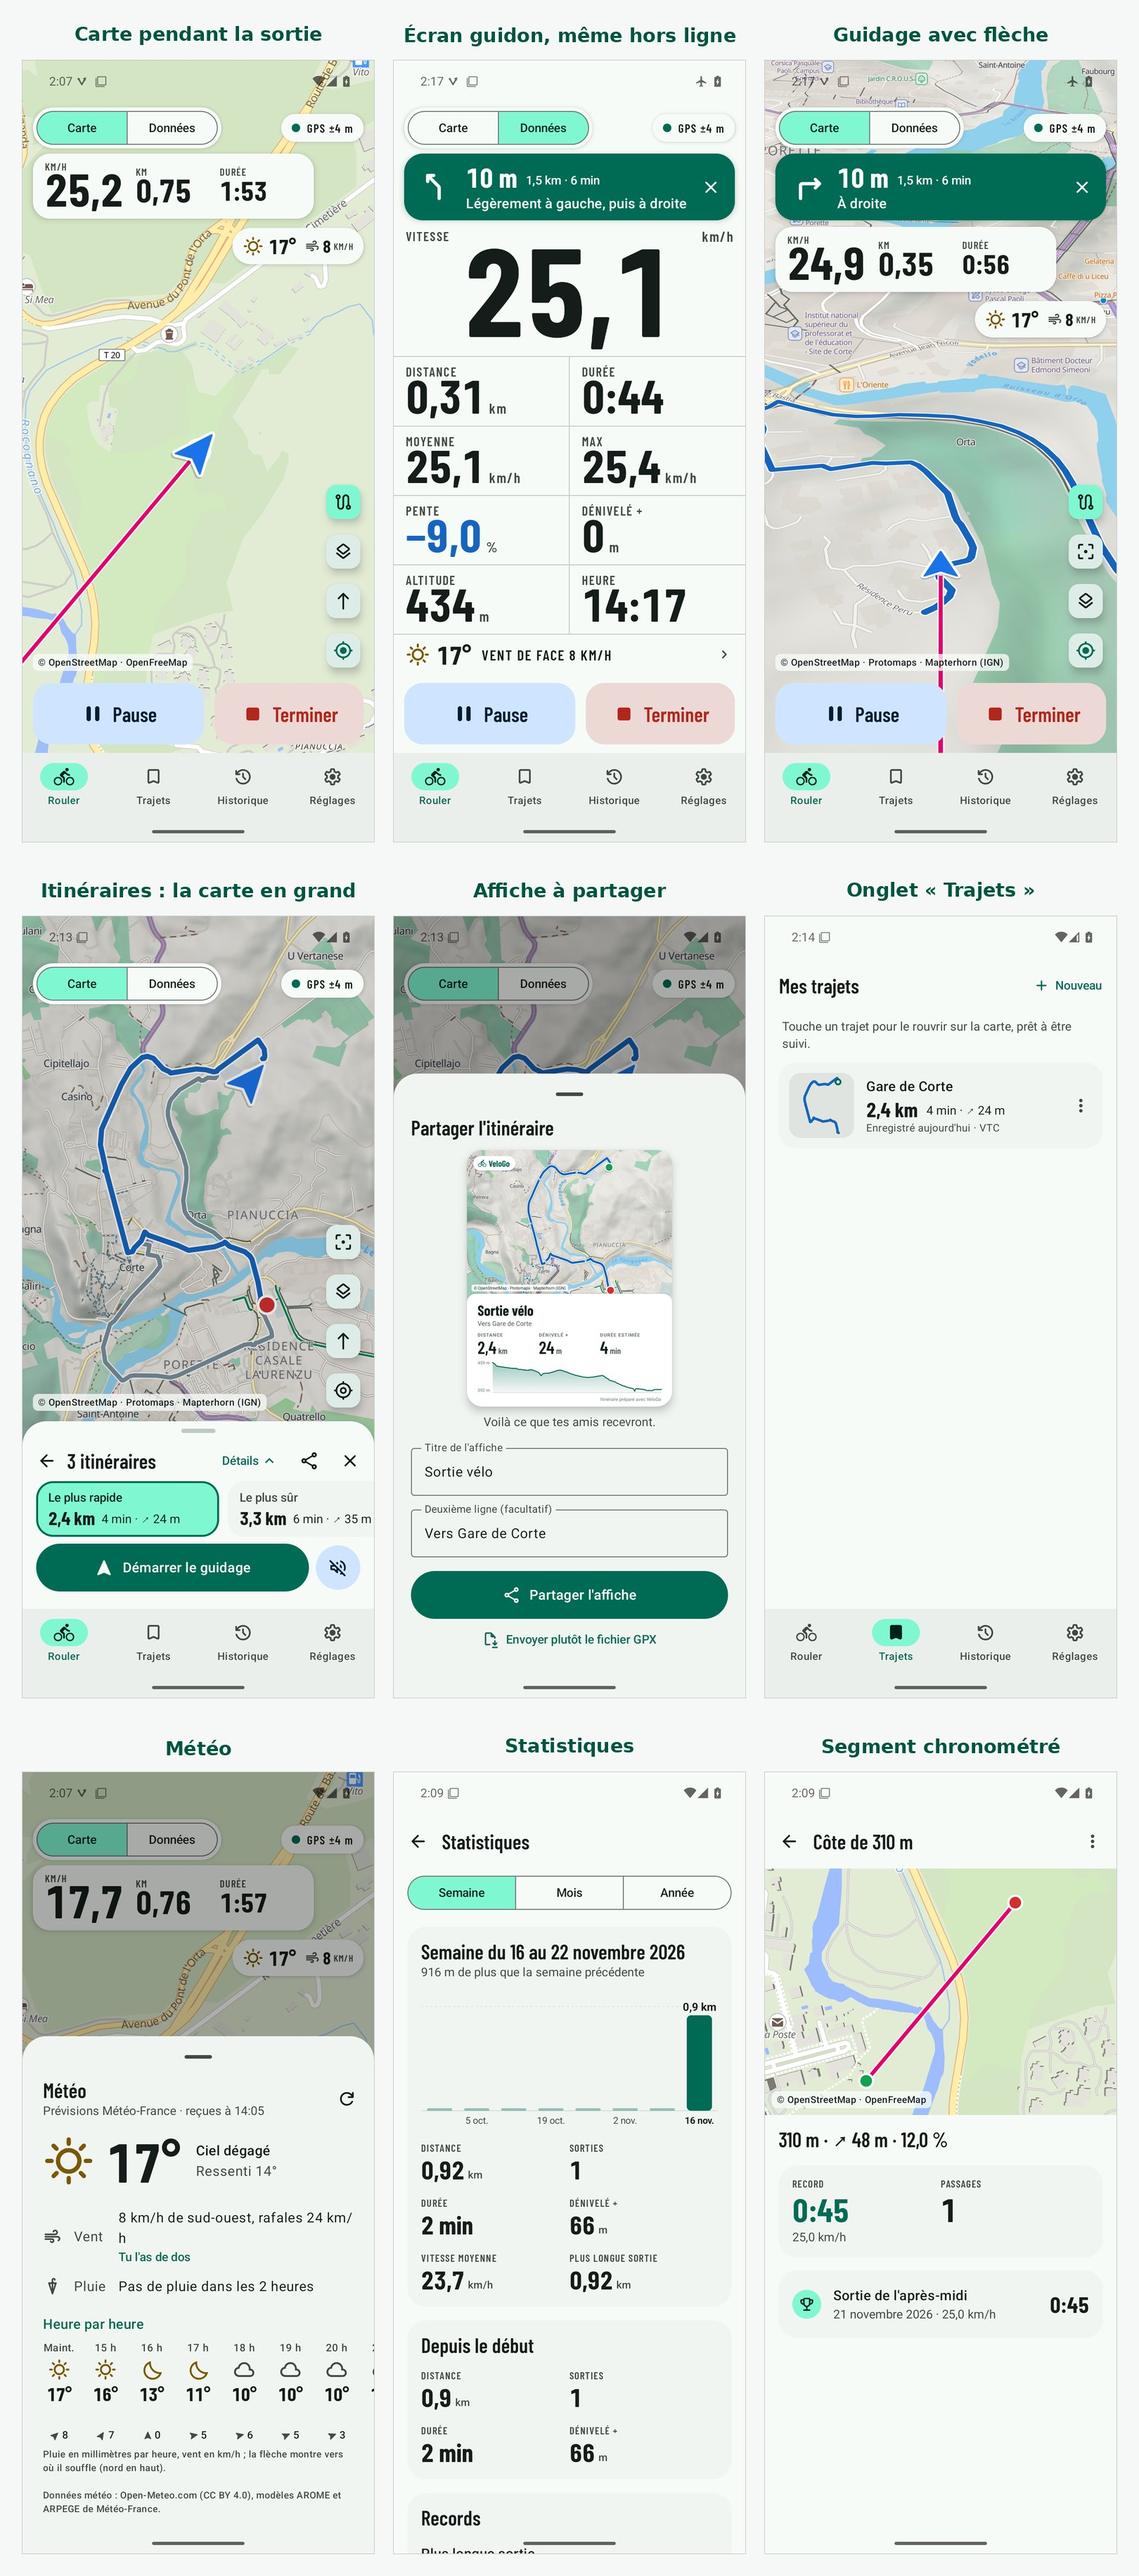
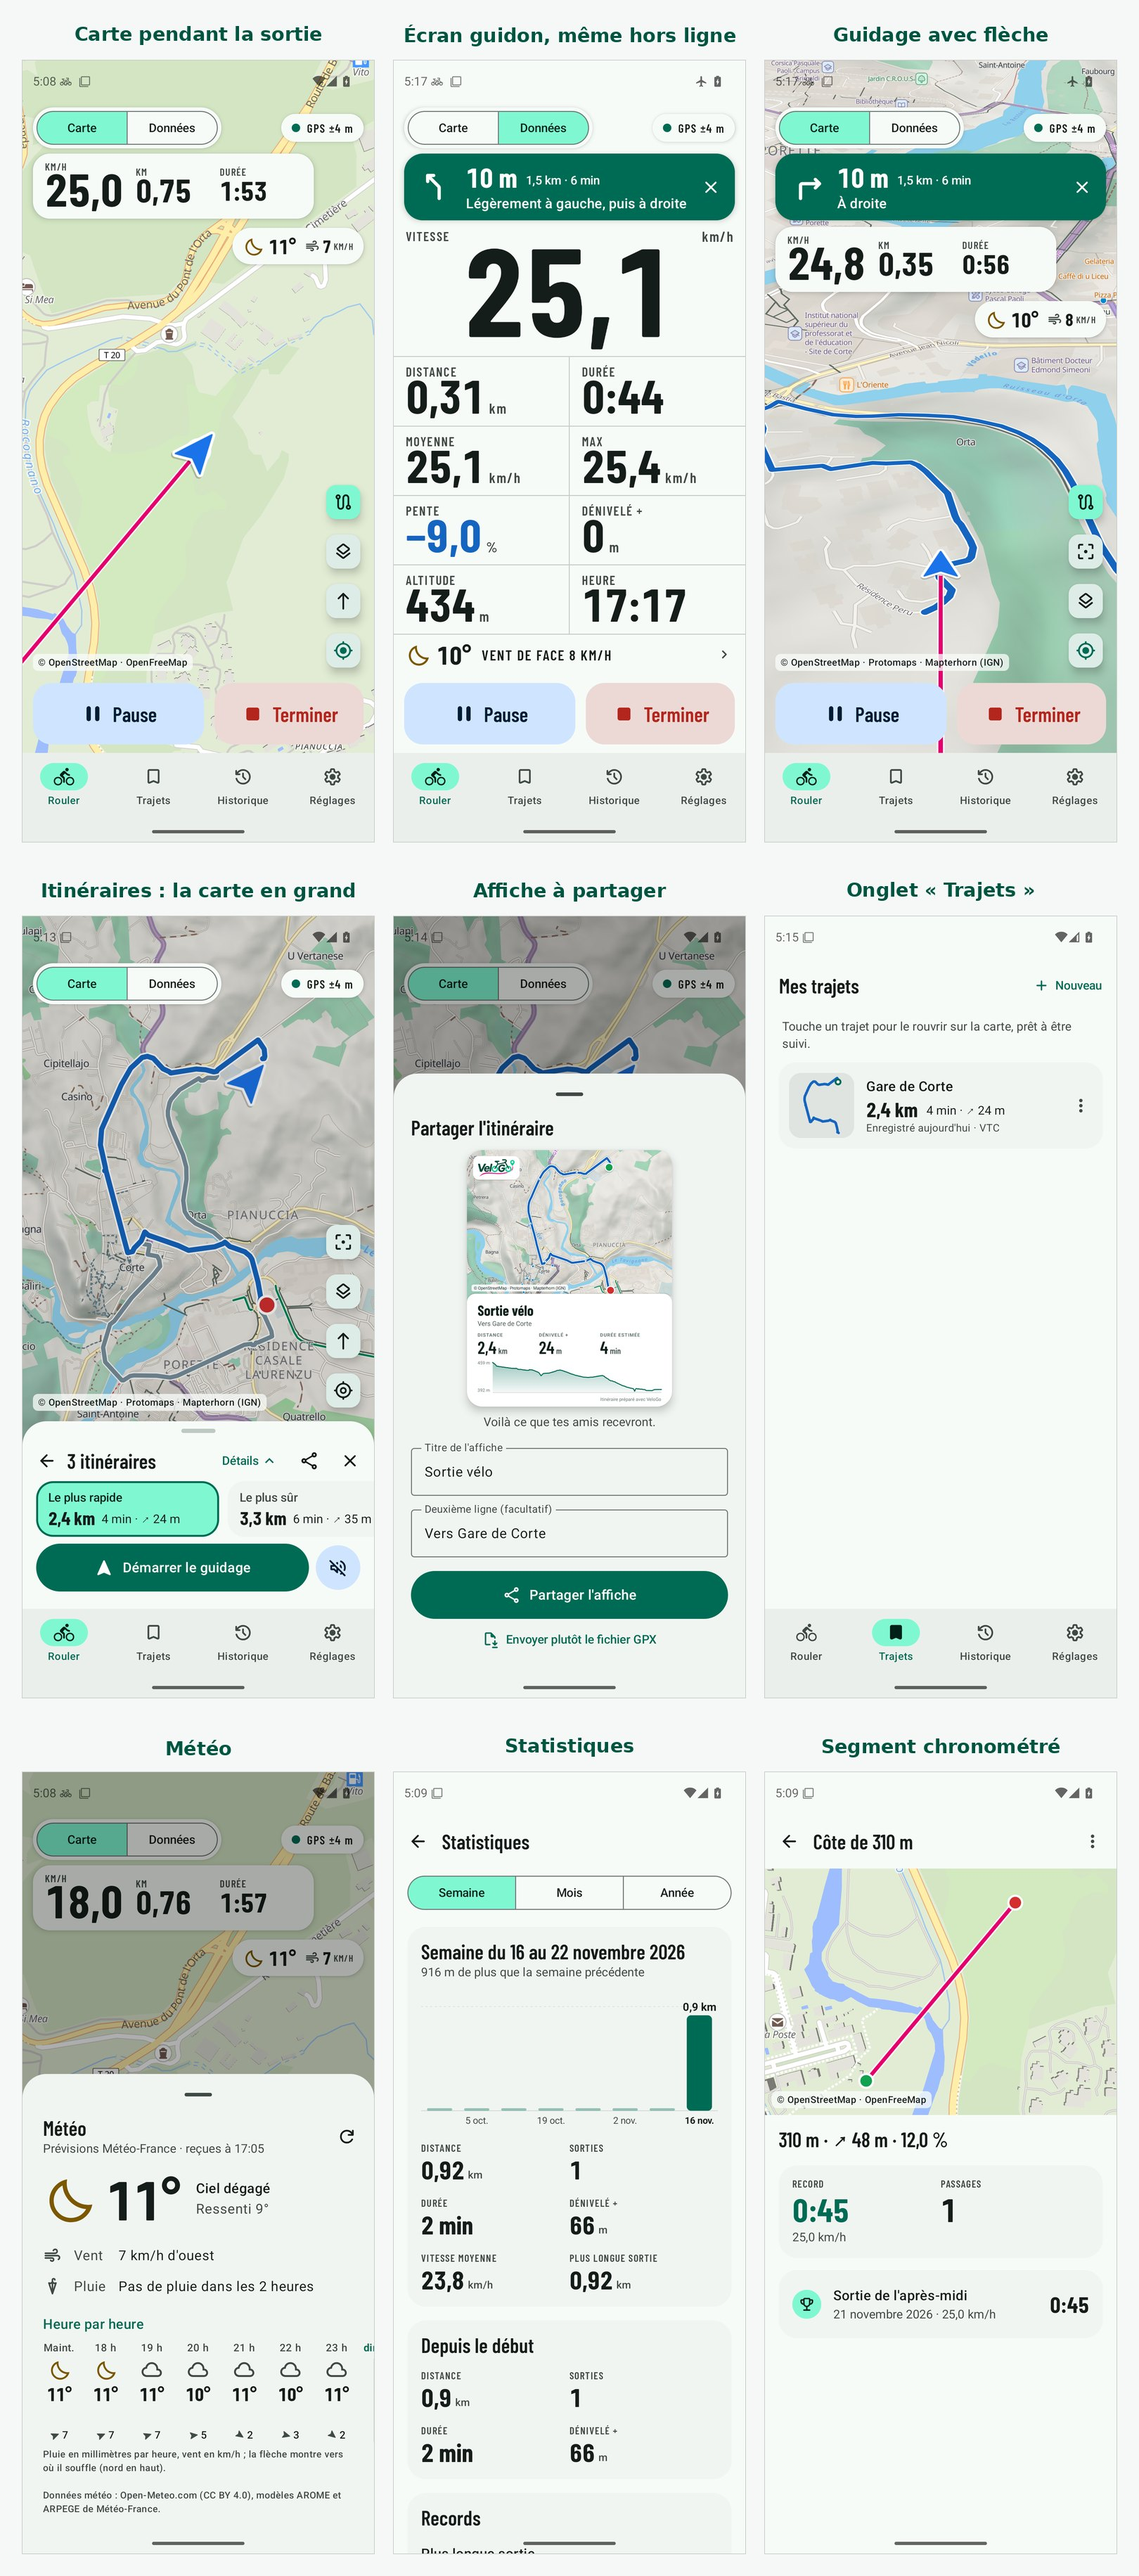
README : image d'aperçu refaite avec les écrans de la version 0.6.22 [skip ci]
Neuf vrais écrans pris par l'essai sur émulateur de la fabrication n° 22, la
première au nouveau logo : icône de notification au vélo du logo, affiche avec
le logo, ligne du vent de l'écran météo sur une seule ligne.

Aucun changement dans l'appli.

Claude-Session: https://claude.ai/code/session_019HgNjwec8rv4JLxM9aNDcc

diff --git a/CLAUDE.md b/CLAUDE.md
@@ -354,7 +354,7 @@ Les versions sont centralisées dans `gradle/libs.versions.toml`.
   partir de l'artefact `essai-emulateur` d'une fabrication réussie : ce sont de vrais écrans, pas des maquettes.
   La capture de la météo manque dans bien des essais (quota d'Open-Meteo sur les machines de GitHub) : on donne
   alors un second dossier de captures, plus ancien, où elle existe. L'image actuelle vient de la fabrication
-  n° 19 (version 0.6.19).
+  n° 22 (version 0.6.22, la première au nouveau logo).
 
 ## Fabrication des cartes hors ligne
 
